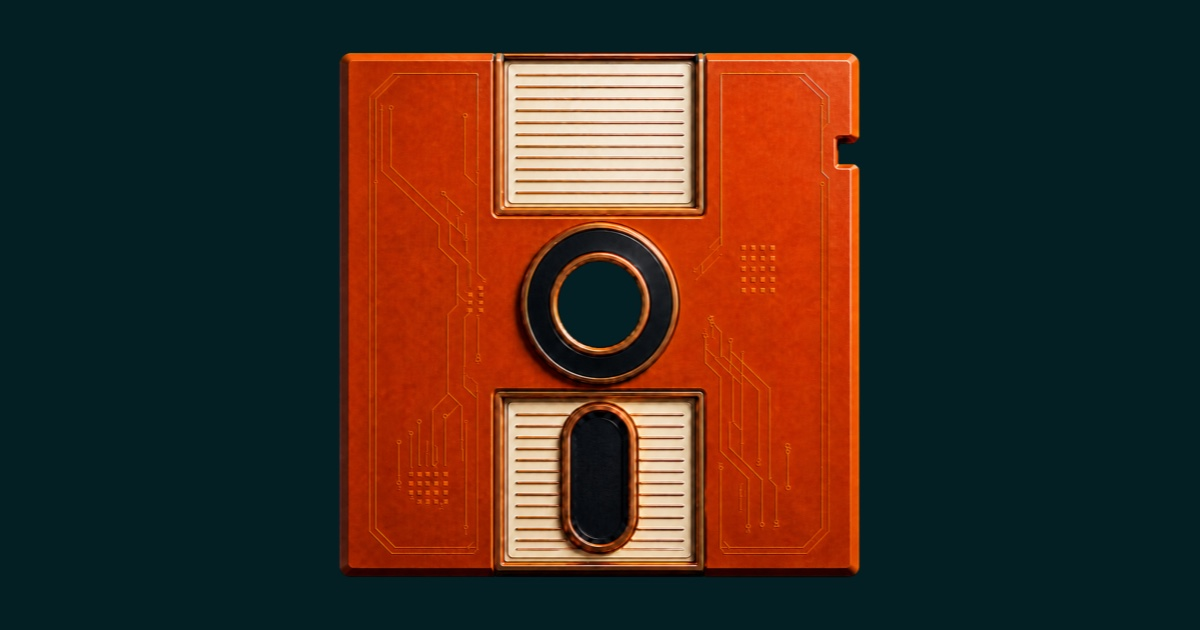
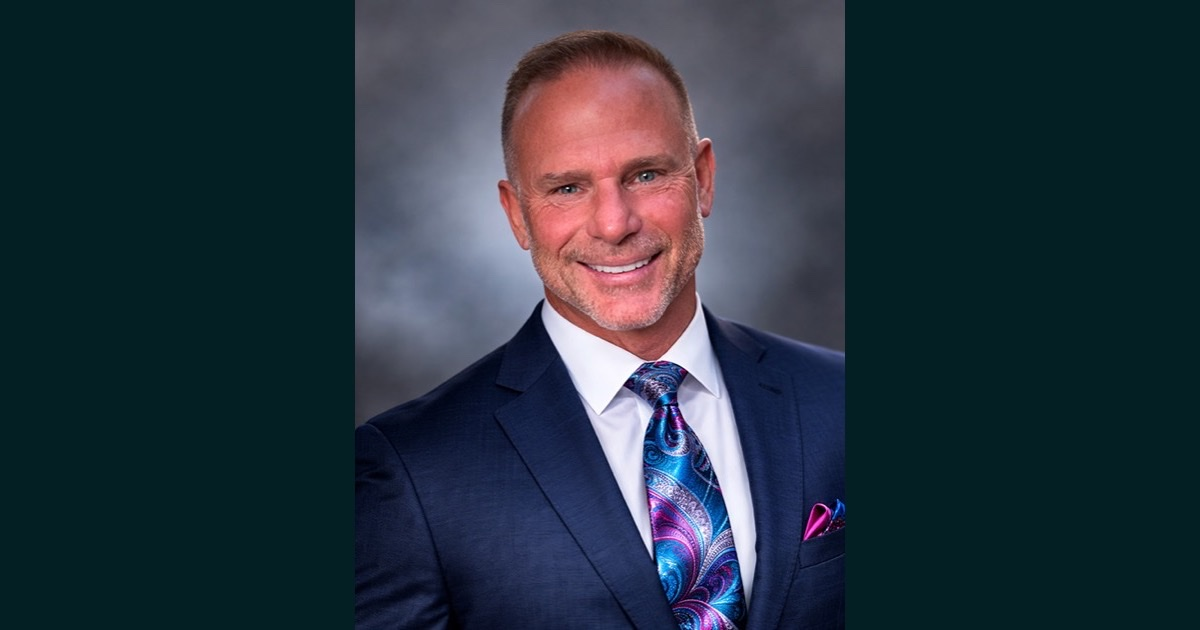
Changed image to my profile

diff --git a/index.html b/index.html
@@ -21,14 +21,14 @@
     <meta property="og:image:type" content="image/jpeg" />
     <meta property="og:image:width" content="1200" />
     <meta property="og:image:height" content="630" />
-    <meta property="og:image:alt" content="Hacksoft logo: an orange floppy disk with circuit-board traces" />
+    <meta property="og:image:alt" content="Larry Hack, Founder &amp; Fractional CTO at Hacksoft" />
 
     <!-- Twitter/X Card -->
     <meta name="twitter:card" content="summary_large_image" />
     <meta name="twitter:title" content="Hacksoft | Fractional CTO &amp; Technology Leadership" />
     <meta name="twitter:description" content="Technology leadership, without the full-time hire. Technology strategy, M&amp;A due diligence, team building, and practical AI adoption." />
     <meta name="twitter:image" content="https://www.hacksoft.net/og-image.jpg" />
-    <meta name="twitter:image:alt" content="Hacksoft logo: an orange floppy disk with circuit-board traces" />
+    <meta name="twitter:image:alt" content="Larry Hack, Founder &amp; Fractional CTO at Hacksoft" />
 
     <!-- Favicon -->
     <link rel="icon" type="image/x-icon" href="/favicon.ico" />
